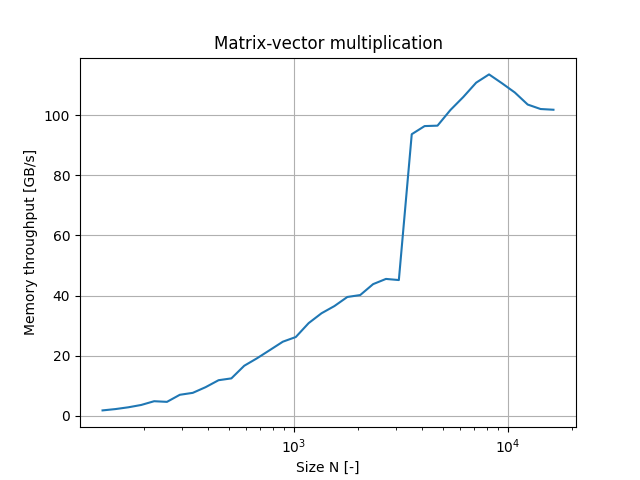
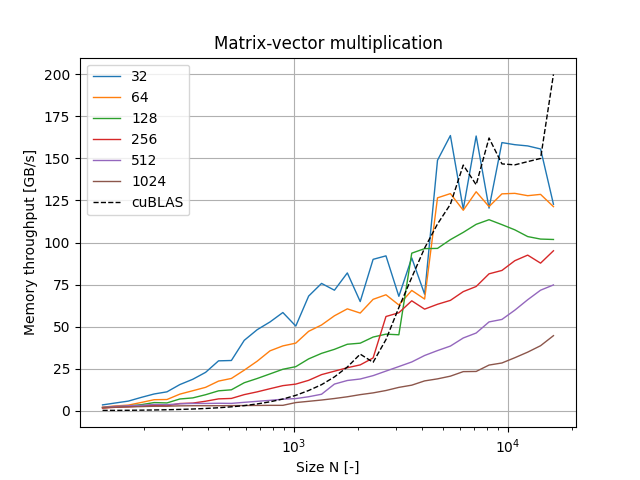
L2

diff --git a/L2/plots.py b/L2/plots.py
@@ -25,19 +25,22 @@ for filename in os.listdir(directory):
         size_vec = [float(line[4]) for line in data]
         mem_vec = [float(line[-2]) for line in data]
         gflops_vec = [float(line[-5]) for line in data]
+        styles = ["-", "-", "-", "-", "-", "-", "k--"]
         #print(mem_vec)
         plt.xscale("log")
         
-        plt.plot(size_vec, mem_vec)
+        plt.plot(size_vec, mem_vec, styles[count], linewidth=1)
         
         plt.title("Matrix-vector multiplication")
         #plt.legend(["1", "256", "512", "768", "1024"])
         plt.ylabel("Memory throughput [GB/s]")
         plt.xlabel("Size N [-]")
         #plt.axes((512, 1e8, 0, 256))
-        plt.grid()
-        plt.savefig("Matvec.png")
-        plt.show()
+        if count == 6:
+            plt.legend(["32", "64", "128", "256", "512", "1024", "cuBLAS"])
+            plt.grid()
+            plt.savefig("Matvec.png")
+            plt.show()
             
     
             
